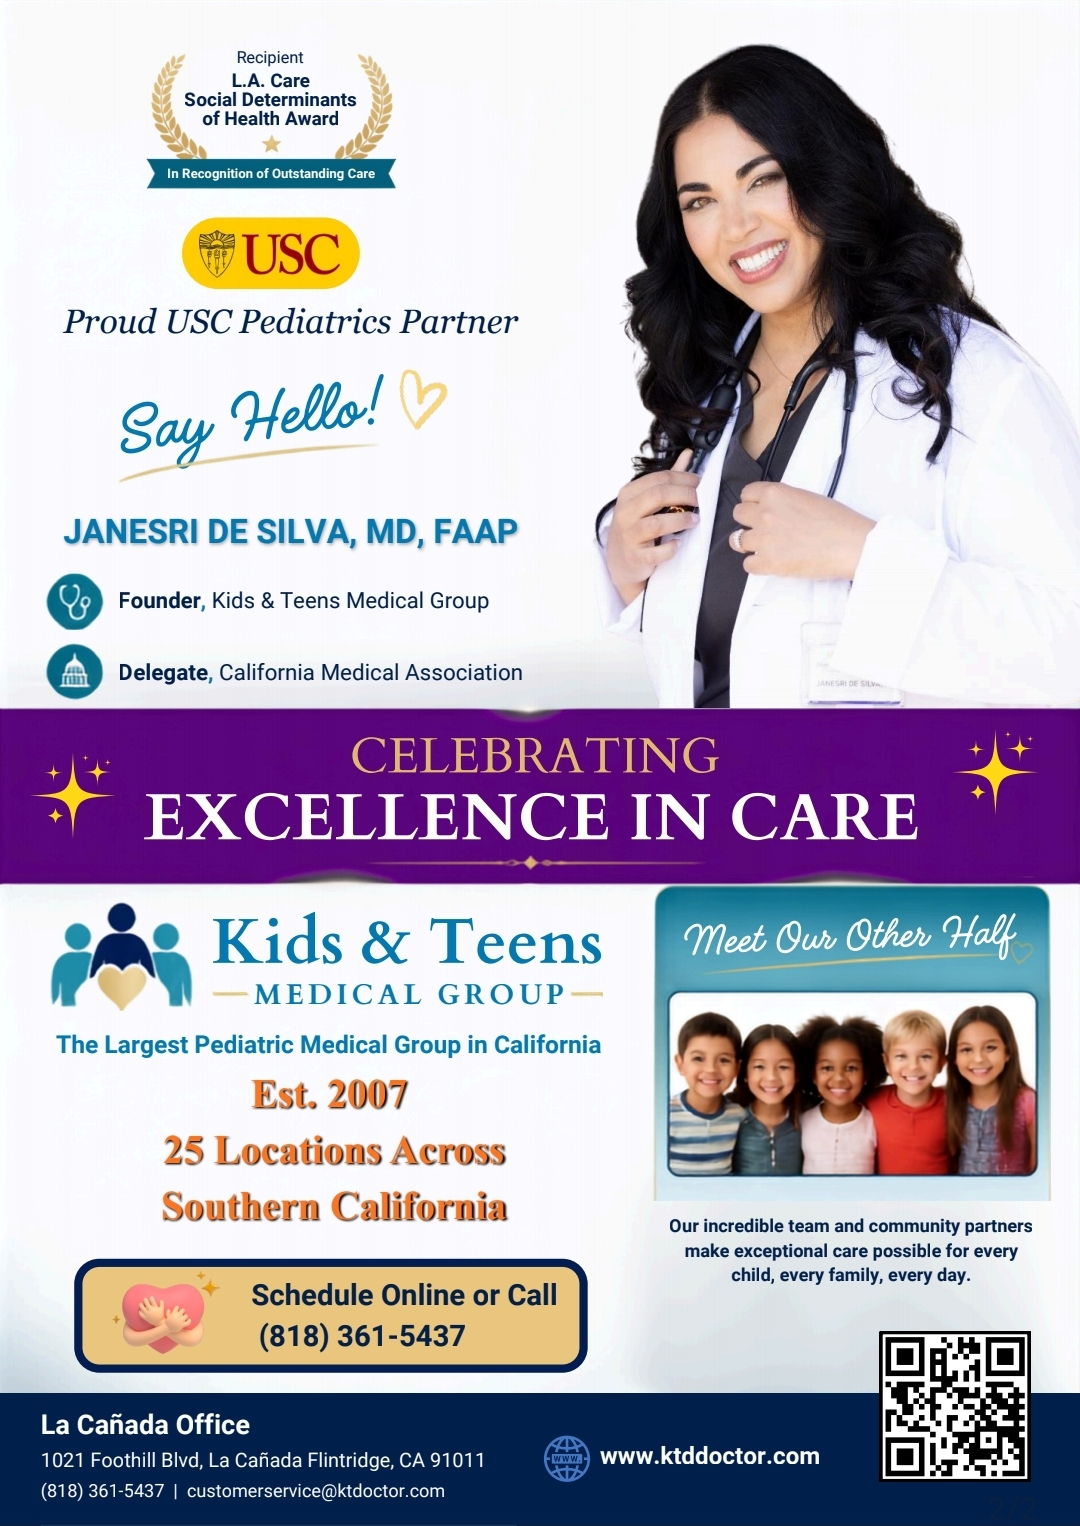
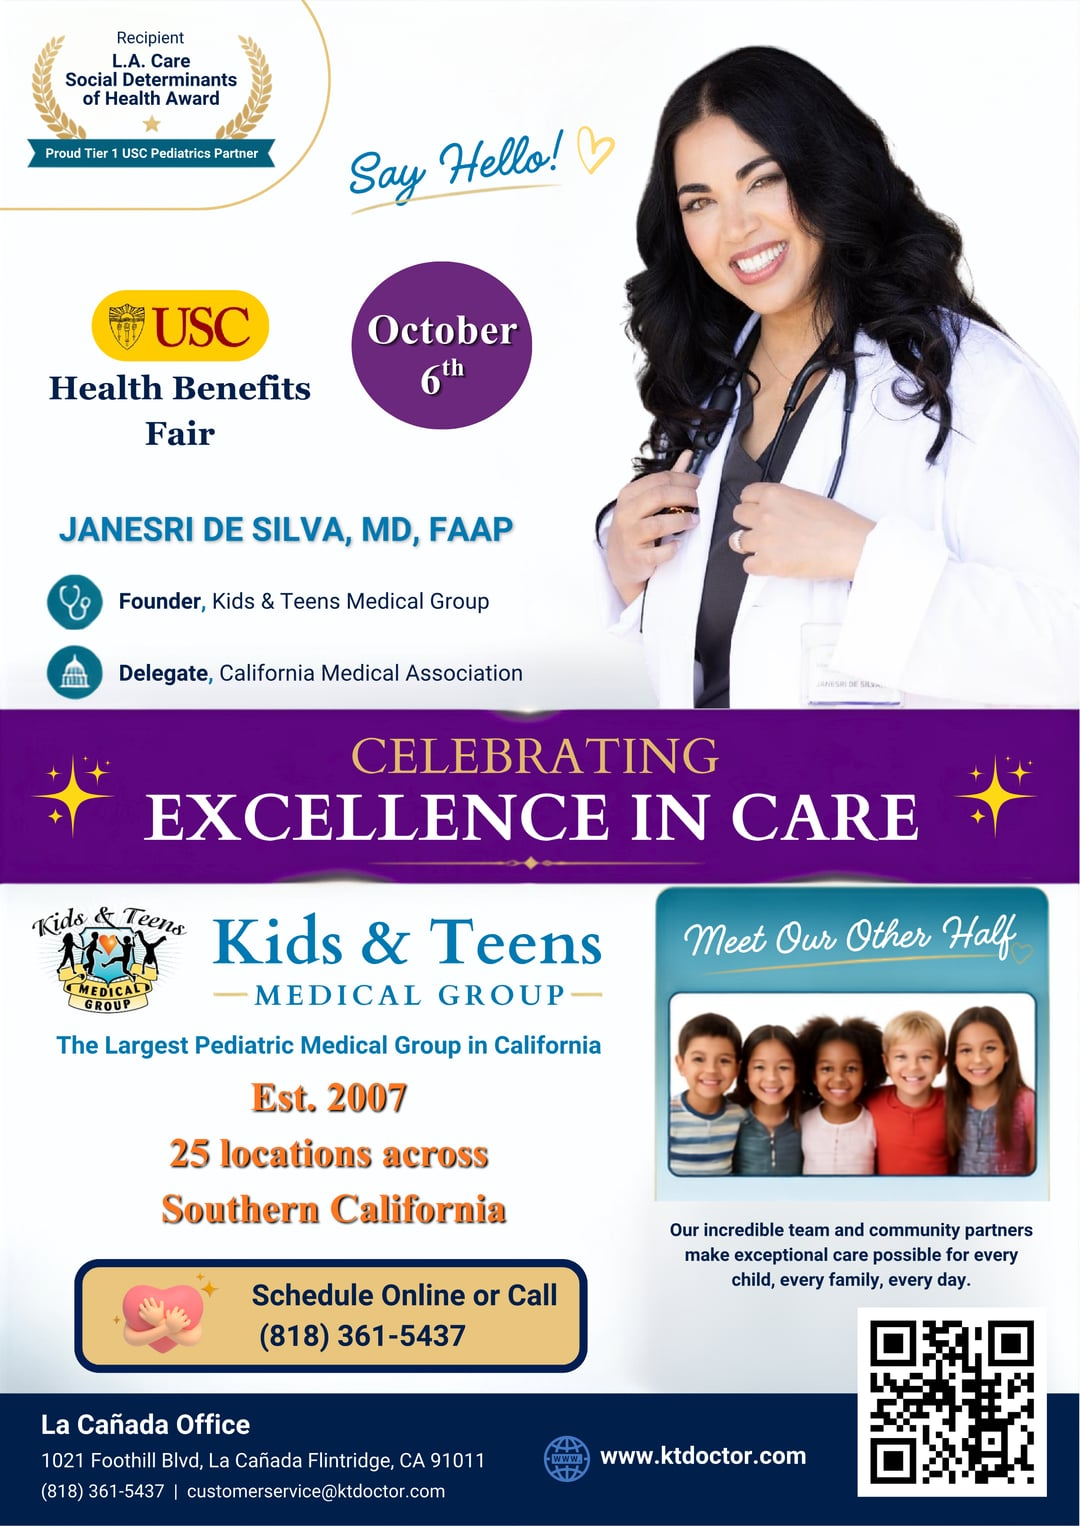
feat(media): replace USC flyer with the Health Benefits Fair edition
New flyer (Oct 6th fair, Tier 1 partner, corrected www.ktdoctor.com URL and
QR) replaces the old artwork on the Media page and in the seasonal drawer.
Same 1080x1526 size, so no layout change. Alt text updated in both locales.

diff --git a/data/mediaKit.ts b/data/mediaKit.ts
@@ -131,12 +131,11 @@ export const mediaDownloads: MediaDownload[] = [
  * The USC partnership flyer, shown as its own section between the media kit and
  * the downloads, per client direction.
  *
- * KNOWN ISSUE with the supplied artwork (`public/media/ktmg-flyer.jpg`): it
- * prints "www.ktddoctor.com" and its QR code encodes the same misspelling.
- * That domain is unregistered, so scanning the code fails rather than reaching
- * anyone else. It is published here regardless because on screen the QR is
- * decorative, and the surrounding page links to the real site. Replace the JPEG
- * once a corrected export arrives; nothing else needs to change.
+ * The artwork is `public/media/ktmg-flyer.jpg`, the "USC Health Benefits Fair"
+ * edition. Its printed URL and QR code both point at www.ktdoctor.com (the
+ * earlier edition misspelled the domain). The same JPEG is reused for the
+ * seasonal drawer at `public/banners/season-usc-pediatrics-partner.jpg`, so
+ * replace both files together.
  *
  * The flyer is a text-heavy image, so `highlights` restates its substance as
  * real text. Screen readers and search engines cannot read a JPEG, and `alt`
@@ -162,9 +161,9 @@ export const uscFlyer: MediaFeature = {
   imageSrc: "/media/ktmg-flyer.jpg",
   imageWidth: 1080,
   imageHeight: 1526,
-  alt: "Kids & Teens Medical Group flyer featuring founder Dr. Janesri De Silva, MD, FAAP, marking the practice as a proud USC Pediatrics partner and a recipient of the L.A. Care Social Determinants of Health Award.",
+  alt: "Kids & Teens Medical Group flyer for the USC Health Benefits Fair on October 6th, featuring founder Dr. Janesri De Silva, MD, FAAP, marking the practice as a proud Tier 1 USC Pediatrics partner and a recipient of the L.A. Care Social Determinants of Health Award.",
   altEs:
-    "Folleto de Kids & Teens Medical Group con la fundadora, la Dra. Janesri De Silva, MD, FAAP, que destaca a la práctica como orgulloso socio de Pediatría de USC y galardonada con el Premio a los Determinantes Sociales de la Salud de L.A. Care.",
+    "Folleto de Kids & Teens Medical Group para la Feria de Beneficios de Salud de USC del 6 de octubre, con la fundadora, la Dra. Janesri De Silva, MD, FAAP, que destaca a la práctica como orgulloso socio de Pediatría de USC de Nivel 1 y galardonada con el Premio a los Determinantes Sociales de la Salud de L.A. Care.",
   highlights: [
     {
       text: "Proud USC Pediatrics partner of their Health Benefits Plan.",

diff --git a/components/SeasonTab.test.tsx b/components/SeasonTab.test.tsx
@@ -19,7 +19,7 @@ describe("SeasonTab", () => {
 
     const dialog = screen.getByRole("dialog");
     expect(dialog).toBeInTheDocument();
-    expect(screen.getByRole("img", { name: /proud USC Pediatrics partner/ })).toBeInTheDocument();
+    expect(screen.getByRole("img", { name: /Tier 1 USC Pediatrics partner/ })).toBeInTheDocument();
     expect(screen.getByRole("img", { name: /Global Iodine Deficiency Prevention Day/ })).toBeInTheDocument();
     expect(screen.getByRole("img", { name: /Back to school reminder/ })).toBeInTheDocument();
     expect(screen.getByRole("img", { name: /Back to school vision check/ })).toBeInTheDocument();
@@ -54,7 +54,7 @@ describe("SeasonTab", () => {
     await userEvent.click(screen.getByRole("button", { name: "Open seasonal updates" }));
 
     const banners = screen.getAllByRole("img");
-    expect(banners[0].getAttribute("alt")).toMatch(/proud USC Pediatrics partner/);
+    expect(banners[0].getAttribute("alt")).toMatch(/Tier 1 USC Pediatrics partner/);
   });
 
   it("gives each banner its own aspect ratio so nothing is cropped", async () => {
@@ -63,7 +63,7 @@ describe("SeasonTab", () => {
 
     // The flyer is taller than the 4:5 health banners. Forcing it into the
     // shared 4:5 box would crop the award badge and the office address.
-    const flyer = screen.getByRole("img", { name: /proud USC Pediatrics partner/ });
+    const flyer = screen.getByRole("img", { name: /Tier 1 USC Pediatrics partner/ });
     expect(flyer.closest("div")).toHaveClass("aspect-[1080/1526]");
 
     const iodine = screen.getByRole("img", { name: /Global Iodine Deficiency Prevention Day/ });
